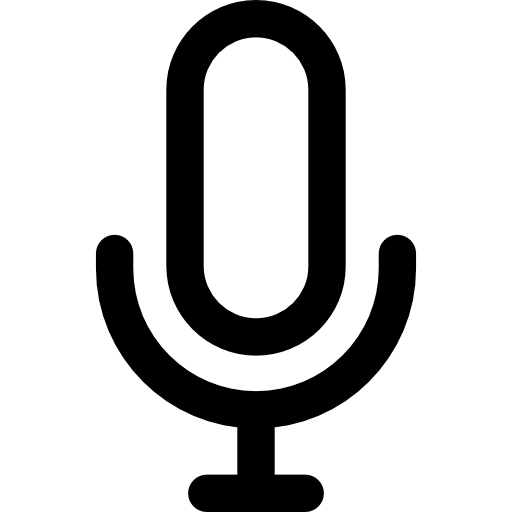
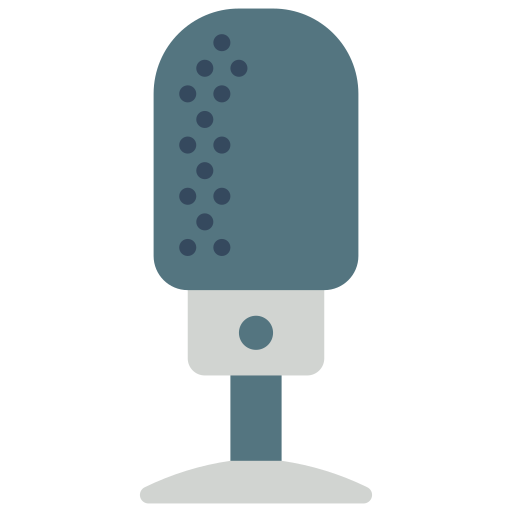
Novos ícones, página base do perfil criada, pop-up de confirmação na exclusão de relatórios adicionado, melhoria na página "Meus Relatórios", correção de bugs.

diff --git a/app/templates/dashboard/my_reports.html b/app/templates/dashboard/my_reports.html
@@ -1,31 +1,37 @@
+{% set my_reports_option = 'font-weight:700;' %}
 {% extends "dashboard/dashboard_base.html" %}
 
 {% block title %}Meus Relatórios{% endblock %}
 
 {% block panel_content %}
 <h2>Meus Relatórios</h2>
-{% for report in reports %}
-    <div class="report-list-item">
-        <h4>{{ report.title }}</h4>
-        <br>
-        <div class="collapse" id="{{ report.report_id }}">
-            <div class="card-body">
-                {{ report.report|safe }}
-            </div>
+{% if reports==[]: %}
+<p>Que página vazia 🧐 Que tal gerar uns <a href="/new_report">relatórios</a>? 👀</p>
+{% else %}
+    {% for report in reports %}
+        <div class="report-list-item">
+            <h4>{{ report.title }}</h4>
             <br>
+            <div class="collapse" id="{{ report.report_id }}">
+                <div class="card-body">
+                    {{ report.report|safe }}
+                </div>
+                <br>
+            </div>
+            <div class="reports-btns">
+                <p class="d-inline-flex gap-1">
+                    <a class="btn btn-primary" data-bs-toggle="collapse" href="#{{ report.report_id }}" role="button" aria-expanded="false" aria-controls="collapseExample">
+                        Ler Mais
+                    </a>
+                    <a data-id="{{ report.report_id }}" class="btn btn-danger btn-delete">
+                        Apagar 
+                    </a>
+                </p>
+            </div>
         </div>
-        <div class="reports-btns">
-            <p class="d-inline-flex gap-1">
-                <a class="btn btn-primary" data-bs-toggle="collapse" href="#{{ report.report_id }}" role="button" aria-expanded="false" aria-controls="collapseExample">
-                    Ler Mais
-                </a>
-                <a data-id="{{ report.report_id }}" class="btn btn-danger btn-delete">
-                    Apagar 
-                </a>
-            </p>
-        </div>
-    </div>
-{% endfor %}
+    {% endfor %}
+{% endif %}
+<script src="//cdn.jsdelivr.net/npm/sweetalert2@11"></script>
 <script>
     async function deleteReport(request_id) {
         const response = await fetch("/delete_report", {
@@ -41,15 +47,30 @@
         });
         return response.json();
     }
-    
-    var deleteButtons = document.querySelectorAll(".btn-delete");
+    document.addEventListener("DOMContentLoaded", function(){
+        const deleteButton = document.querySelectorAll(".btn-delete")
 
-    deleteButtons.forEach(function(button) {
-        button.addEventListener("click", function(){
-            deleteReport(this.dataset.id)
-            location.href = "/trash";
-        });
-    });
-
+        if(deleteButton){
+            deleteButton.forEach(function(button){
+                button.addEventListener("click", function(){
+                    Swal.fire({
+                    title: 'Apagar Relatório?',
+                    text: 'Seu relatório será movido para a lixeira e permanecerá em nosso Banco de Dados por 7 dias. Tem certeza que deseja executar essa ação?',
+                    icon: 'warning',
+                    showCancelButton: true,
+                    confirmButtonColor: '#3085d6',
+                    cancelButtonColor: '#d33',
+                    confirmButtonText: 'Prosseguir',
+                    cancelButtonText: 'Cancelar'
+                    }).then((result) => {
+                        if (result.isConfirmed) {
+                            deleteReport(this.dataset.id)
+                            location.href = "/trash";
+                        }
+                    });
+                })
+            })
+        }
+    })
 </script>
 {% endblock %}

diff --git a/app/templates/dashboard/dashboard_base.html b/app/templates/dashboard/dashboard_base.html
@@ -7,17 +7,22 @@
                 <ul class="nav nav-pills flex-column mb-sm-auto mb-0 align-items-center align-items-sm-start" id="menu">
                     <li class="nav-item">
                         <a href="{{ url_for('main.new_report') }}" class="nav-link align-middle px-0">
-                            <i class="fs-4 bi-table d-block d-md-none"><img src="{{ url_for('static', filename='images/new_report.png') }}" alt="Novo Relatório" width="32" height="32" class="rounded-circle me-2"></i> <span class="ms-1 d-none d-md-inline text-black" style="{{ new_report_option }}">Novo Relatório</span>
+                            <i class="fs-4 bi-table d-block d-md-none"><img src="{{ url_for('static', filename='images/new_report.png') }}" alt="Novo Relatório" width="32" height="32" class="me-2"></i> <span class="ms-1 d-none d-md-inline text-black sidebar-item" style="{{ new_report_option }}">Novo Relatório</span>
                         </a>
                     </li>
                     <li class="nav-item">
                         <a href="{{ url_for('main.my_reports') }}" class="nav-link align-middle px-0">
-                            <i class="fs-4 bi-house d-block d-md-none"><img src="{{ url_for('static', filename='images/my_reports.png') }}" alt="Meus Relatórios" width="32" height="32" class="rounded-circle me-2"></i> <span class="ms-1 d-none d-md-inline text-black" style="{{ my_reports_option }}">Meus Relatórios</span>
+                            <i class="fs-4 bi-house d-block d-md-none"><img src="{{ url_for('static', filename='images/my_reports.png') }}" alt="Meus Relatórios" width="32" height="32" class="me-2"></i> <span class="ms-1 d-none d-md-inline text-black sidebar-item" style="{{ my_reports_option }}">Meus Relatórios</span>
                         </a>
                     </li>
                     <li class="nav-item">
                         <a href="{{ url_for('main.trash') }}" class="nav-link align-middle px-0">
-                            <i class="fs-4 bi-trash d-block d-md-none"><img src="{{ url_for('static', filename='images/trash.png') }}" alt="Lixeira" width="32" height="32" class="rounded-circle me-2"></i> <span class="ms-1 d-none d-md-inline text-black" style="{{ trash_option }}">Lixeira</span>
+                            <i class="fs-4 bi-trash d-block d-md-none"><img src="{{ url_for('static', filename='images/trash.png') }}" alt="Lixeira" width="32" height="32" class="me-2"></i> <span class="ms-1 d-none d-md-inline text-black sidebar-item" style="{{ trash_option }}">Lixeira</span>
+                        </a>
+                    </li>
+                    <li class="nav-item">
+                        <a href="{{ url_for('main.my_account') }}" class="nav-link align-middle px-0">
+                            <i class="fs-4 bi-trash d-block d-md-none"><img src="{{ url_for('static', filename='images/user.png') }}" alt="Minha Conta" width="32" height="32" class="me-2"></i> <span class="ms-1 d-none d-md-inline text-black sidebar-item" style="{{ my_account_option }}">Minha Conta</span>
                         </a>
                     </li>
                 </ul>

diff --git a/app/templates/dashboard/new_report.html b/app/templates/dashboard/new_report.html
@@ -4,7 +4,7 @@
 {% block title %}Novo Relatório{% endblock %}
 
 {% block panel_content %}
-<h2>Novo Relatório</h2>
+<h2>{{ html_content_title | safe }}</h2>
 <br>
 <form id="audio_upload_form" action="{{ url_for('main.new_report') }}" method="POST" enctype="multipart/form-data">
     <p class="text-justify">Formatos aceitos: MP3 e MP4.</p>
@@ -23,6 +23,9 @@
 </div>
 <script src="//cdn.jsdelivr.net/npm/sweetalert2@11"></script>
 <script>
+    var html_content_title = {{ html_content_title|tojson|safe }};
+    var is_report_generated = {{ is_report_generated }};
+
     document.addEventListener('DOMContentLoaded', function() {
         const downloadButton = document.querySelector('.btn-download');
         const newReportButton = document.querySelector('.btn-new');
@@ -31,7 +34,7 @@
         const generateForm = document.querySelector("#audio_upload_form");
         const reportLoader = document.querySelector(".report-loader");
 
-        if ({{ is_report_generated | safe }}) {
+        if (is_report_generated) {
             generateForm.style.display = "none"
         }
 
@@ -101,8 +104,8 @@
                         reportClone.querySelectorAll('a').forEach(function(a) {
                             a.remove();
                         });
-                        
-                        var reportString = {"htmlReport":reportClone.outerHTML};
+
+                        var reportString = {"html_content":reportClone.outerHTML,"html_content_title":html_content_title};
                         
                         async function saveReport() {
                             const response = await fetch("/save_report", {

diff --git a/app/templates/home.html b/app/templates/home.html
@@ -15,23 +15,15 @@
 
 <div class="features-section">
     <div class="container">
-        <h2>Recursos Principais</h2>
+        <h2>O que oferecemos?</h2>
         <div class="features-grid">
             <div class="feature-box">
-                <h3>Gravação de Áudio</h3>
-                <p>Grave automaticamente o áudio do seu computador durante qualquer reunião.</p>
-            </div>
-            <div class="feature-box">
                 <h3>Relatórios com IA</h3>
-                <p>Obtenha relatórios detalhados e análises aprofundadas gerados por IA.</p>
-            </div>
-            <div class="feature-box">
-                <h3>Legendas ao Vivo</h3>
-                <p>Ofereça legendas em tempo real em múltiplos idiomas para melhorar a acessibilidade.</p>
+                <p>Obtenha relatórios detalhados e análises aprofundadas gerados por IA. Suas reuniões não serão as mesmas após começar a usar o keysession.</p>
             </div>
             <div class="feature-box">
                 <h3>Escolha de Idioma</h3>
-                <p>Disponível em uma ampla gama de idiomas, garantindo inclusão global.</p>
+                <p>Disponível em uma ampla gama de idiomas, garantindo inclusão global. O melhor? A identificação do idioma é automática!!</p>
             </div>
         </div>
         <br>

diff --git a/app/templates/dashboard/my_account.html b/app/templates/dashboard/my_account.html
@@ -1,6 +1,8 @@
-{% extends "base.html" %}
+{% set my_account_option = 'font-weight:700;' %}
+{% extends "dashboard/dashboard_base.html" %}
+
 {% block title %}Minha Conta{% endblock %}
 
-{% block content %}
-
+{% block panel_content %}
+<h2>Olá, {{ current_user.username }}!</h2>
 {% endblock %}

diff --git a/app/static/css/style.css b/app/static/css/style.css
@@ -189,6 +189,11 @@ span.ms-1.d-none.d-sm-inline {
     width: max-content;
 }
 
+.sidebar-item:hover {
+    color: #ffc107 !important;
+    
+}
+
 #audio_upload_form {
     display: grid;
 }

diff --git a/app/routes.py b/app/routes.py
@@ -16,7 +16,10 @@ main = Blueprint('main', __name__)
 
 @main.route('/')
 def home():
-    return render_template('home.html')
+    if current_user.is_authenticated:
+        return redirect(url_for('main.new_report'))
+    else:
+        return render_template('home.html')
 
 @main.route('/login', methods=['GET', 'POST'])
 def login():
@@ -83,6 +86,7 @@ def my_reports():
 def new_report():
     global output
     global doc_title
+    html_content_title = "Novo Relatório"
     html_content = ""
     if request.method == 'POST':
         if 'audio_file' not in request.files:
@@ -101,8 +105,9 @@ def new_report():
             minutes = result[0]
             doc_title = f"{result[1]}.docx"
             download_url = url_for('main.report_download')
+            html_content_title = doc_title.replace("_", " ").split(".")[0]
             html_content = dict_to_html(minutes, download_url)
-            
+
             for key, value in minutes.items():
                 heading = ' '.join(word.capitalize() for word in key.split('_'))
                 doc.add_heading(heading, level=1)
@@ -114,9 +119,9 @@ def new_report():
             output.seek(0)
 
             flash('Relatório gerado com sucesso!', 'success')
-            return render_template('dashboard/new_report.html', html_content=html_content,is_report_generated="true")
+            return render_template('dashboard/new_report.html', html_content=html_content,is_report_generated="true",html_content_title=html_content_title)
         
-    return render_template('dashboard/new_report.html', html_content=html_content,is_report_generated="false")
+    return render_template('dashboard/new_report.html', html_content=html_content,is_report_generated="false",html_content_title=html_content_title)
 
 @main.route('/report_download')
 def report_download():
@@ -131,12 +136,12 @@ def report_download():
 @main.route('/save_report', methods=["POST"])
 def save_report():
     if request.method == 'POST' and current_user.is_authenticated:
-        report = request.get_json()["htmlReport"]
+        report = request.get_json()["html_content"]
         report_id = md5(report.encode()).hexdigest()
         user_id = current_user.id
         date = datetime.now()
-        title = f"Report {report_id}"
-
+        title = request.get_json()["html_content_title"]
+        
         try:
             new_report = Report(report=report, report_id=report_id, user_id=user_id, date=date, title=title)
             db.session.add(new_report)

diff --git a/app/__init__.py b/app/__init__.py
@@ -14,8 +14,8 @@ def create_app():
     login_manager.init_app(app)
     login_manager.login_view = 'login'
 
-    with app.app_context():
-        db.create_all()
+    # with app.app_context():
+    #     db.create_all()
 
     from .models import User
     @login_manager.user_loader
